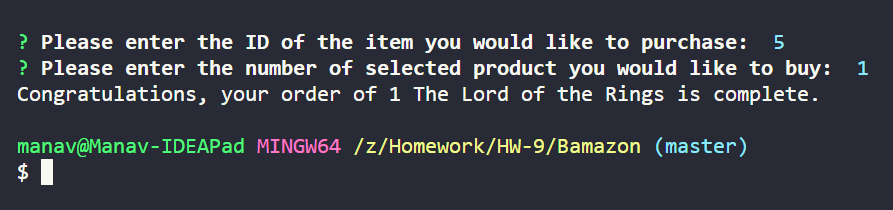
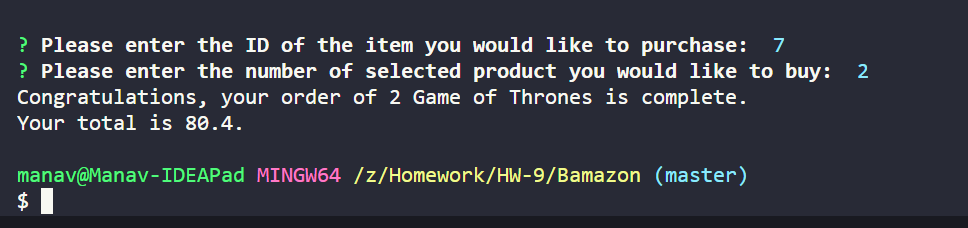
final commit

Changed region(s): [[0.0, 0.1429, 0.9675, 0.5714], [0.0, 0.6571, 0.8466, 0.9429]]

diff --git a/bamazonCustomer.js b/bamazonCustomer.js
@@ -77,6 +77,8 @@ function selectProduct() {
         console.log(
           "Congratulations, your order of " + requested_qty + " " + requested_product_name + " is complete."
         )
+        var orderTotal = requested_product.price * requested_qty;
+        console.log("Your total is " + orderTotal + ".");
         return updateStock(requested_product, requested_qty);
       } else {
         console.log(
